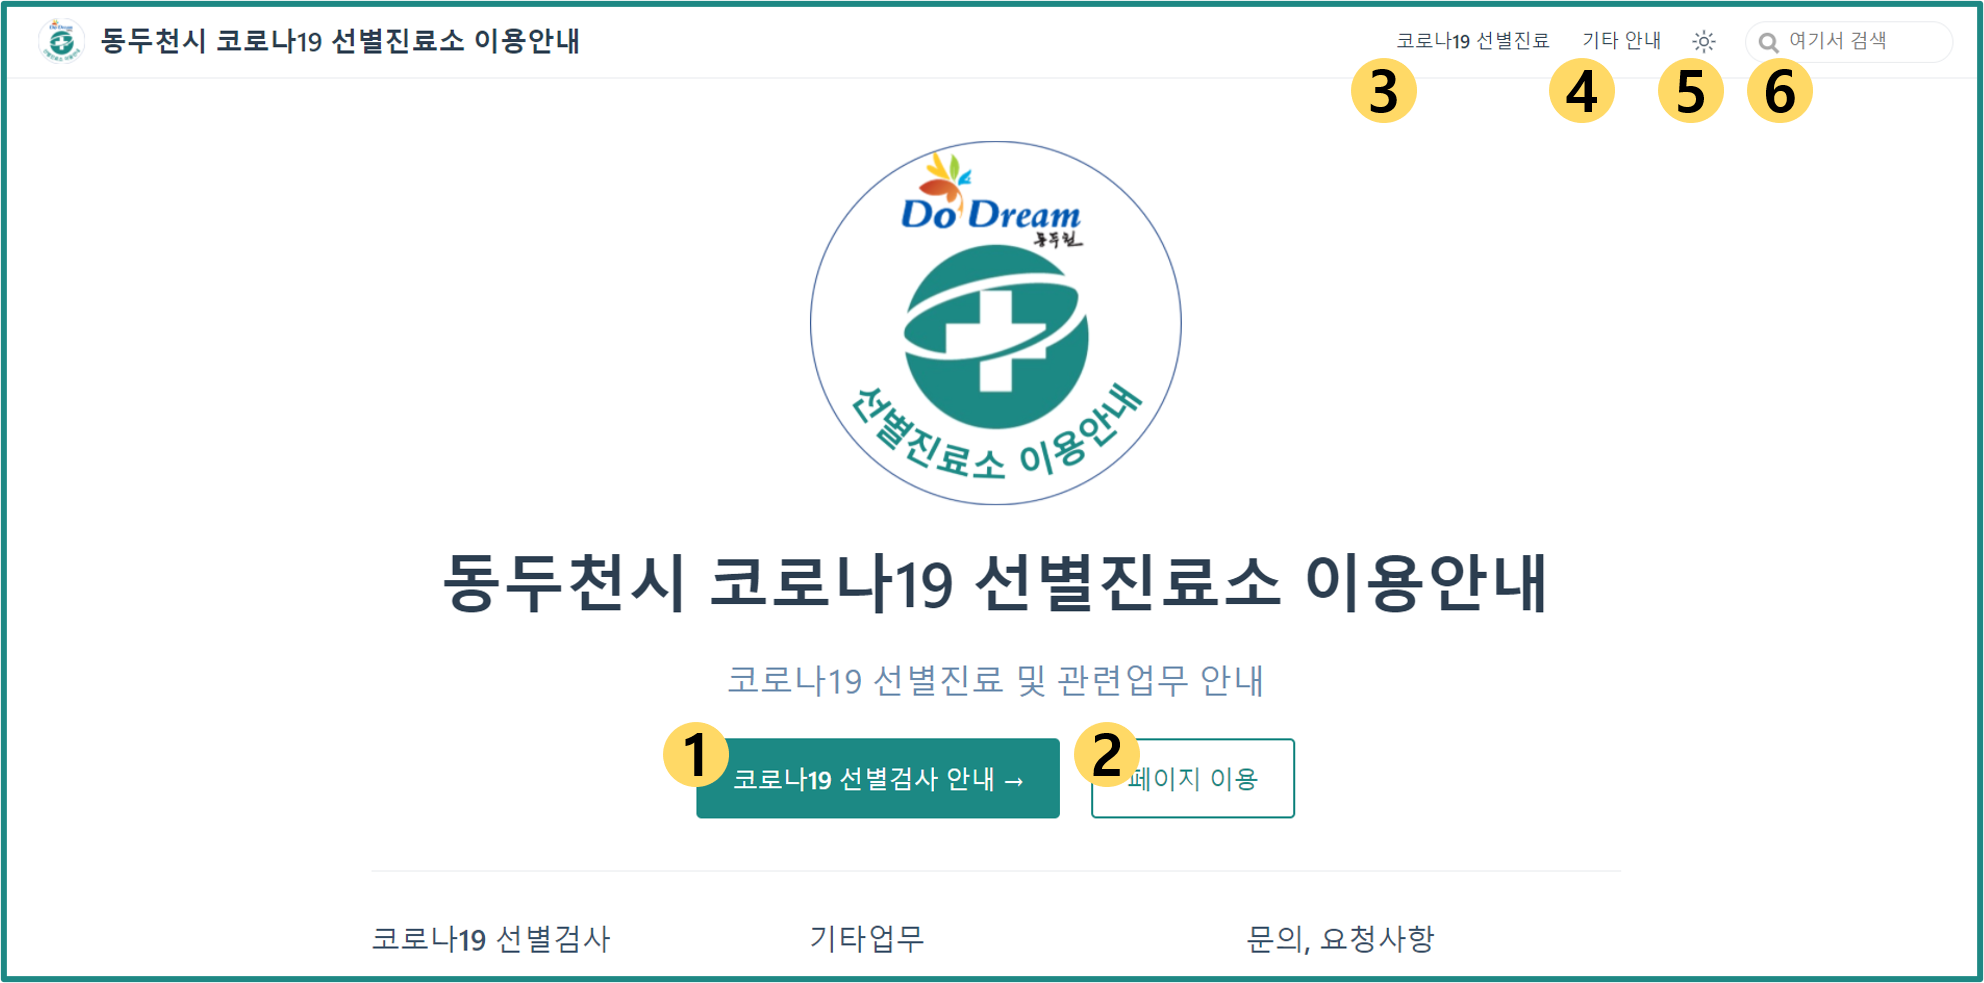
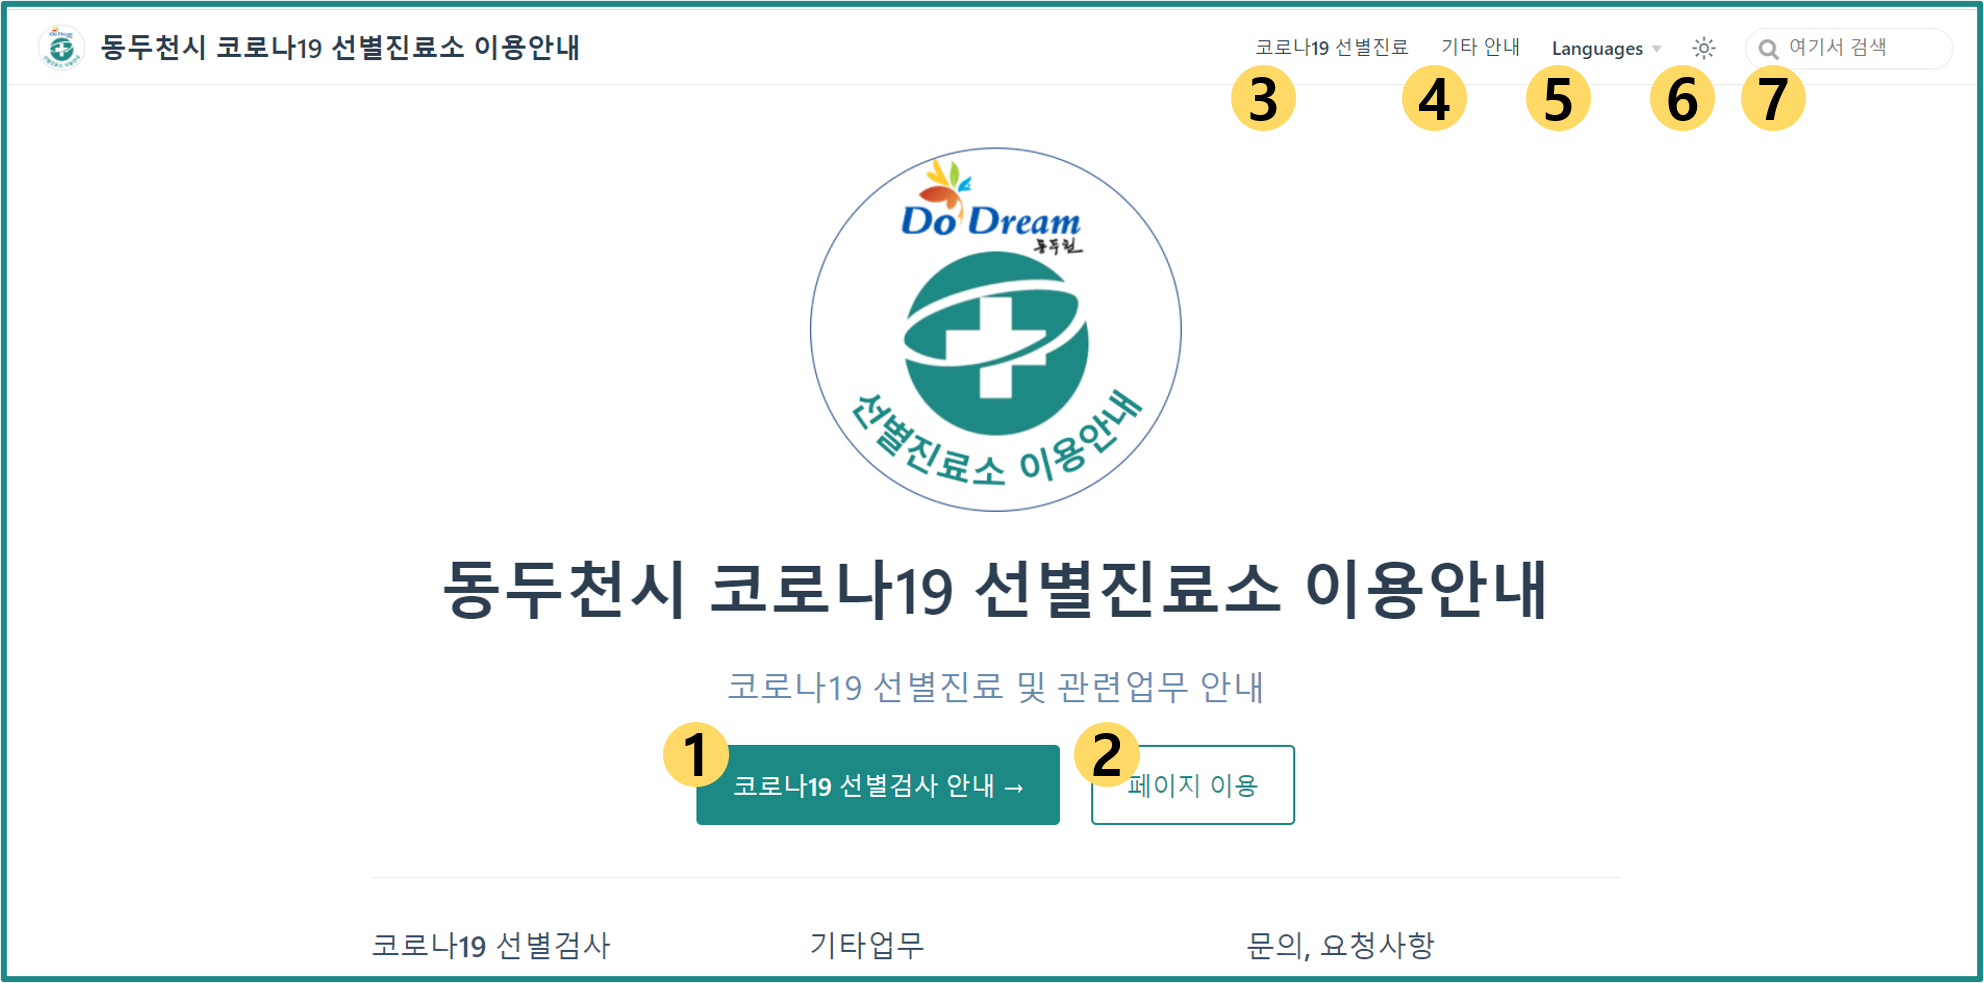
Complete translation : en-US

diff --git a/docs/en/covid-19/README.md b/docs/en/covid-19/README.md
@@ -1,97 +1,100 @@
-# 코로나19 선별진료 안내
+# Notice for COVID-19 Triage
 
-## 기본정보 및 주의사항
+## Basic information and Precautions
 
-### 기본정보
+### Basic information
 
-**운영시간** : 주중(월~금) 오전(09:00~11:30) / 오후(13:00~17:30), 토요일 09:30~11:30
+**Operating time** : Weekdays(MON~FRI) Morning(09:00~11:30) / Afternoon(13:00~17:30), Saturday 09:30~11:30
 
-> 종료시간 전에 대기인이 얼마나 있는지, 접촉자가 얼마나 발생했는지에 따라 통제가 이루어질 수 있습니다.
-원활한 검사를 위해 미리 방문하시기를 권장합니다.
+> Control can be achieved depending on how many people are waiting before the end time and how many contacts have occurred.
+We recommend that you visit in advance for a smooth examination.
 
-**장소** : 동두천시 보건소, 경기 동두천시 중앙로 167 동두천시보건소
+**Location** : Dongducheon-si Health Care Center, 167, Jungang-ro, Dongducheon-si, Gyeonggi-do, Republic of Korea
 
-### 주의사항
+### Precautions
 
-- 선별진료 필요물품을 꼭 챙겨주세요.
+- Please make sure to take the required items.
 
-- 대기줄에서 노란색 안전테이프 뒤에 서 주세요. (사회적 거리두기)
+- Please stand behind the yellow safety tape in the queue. (Social distancing)
 
-- 운영시간에 맞추어 방문해주세요.
+- Please visit in time for the operation.
 
-## 선별진료 필요물품
+## Required Items
 
-### 신분증
+### ID card
 
-선별진료를 받기 위해서, **신분증**은 꼭 지참하셔야 합니다.  
+In order to receive COVID-19 test, you must bring your **ID card**.  
 
-주민등록증과 같은 신분증부터, 같은 역할을 할 수 있는 *운전면허증*, *여권*, *외국인등록증* 이나 *등본*,  
-학생들의 경우 *학생증* 까지도 가능합니다.  
+ID cards such as resident registration cards, *driver's license*, *passport*, *foreign registration card*, *Copy or Abstract of Certification of Resident Register*,  
+For students, *student ID* is also available.
 
-아직 신분증이 없는 아이의 경우, 보호자분께서 아이의 주민등록번호를 숙지하여주시면 됩니다.
+For a child who doesn't have an ID yet, we need the child's social security number.
 
-> 간혹, 자차를 이용해 진료소로 오신 선생님께서는 자동차등록증 등을 제출해주시기도 합니다.
+> Sometimes, people who come to the center by car submit their car registration certificate.
 
-:::tip 실물 신분증이 아니어도 괜찮습니다.
-신분증을 촬영한 사진만 있어도 검사가 가능해요!
+:::tip It doesn't have to be a real card.
+Just a picture of your ID card is also okay.
 :::
 
-### 문자 또는 통화기록
+### A Message or a log of contact
 
-:::danger 코로나19 확진자의 밀접접촉자이거나 동선이 겹치는 경우 등에 해당됩니다.
+:::danger This applies to cases of close contact with COVID-19 confirmed patients or overlapping movements.
 
-- 보건소 등에서 '검사를 받아야 한다.'는 요지의 문자 또는 연락을 받으신 경우,
+- If you receive a message or contact that said 'You have to take COVID-19 test' from the health care center, or the other institution,
 
-- 중대본 등에서 '(기간)에 (장소)를 방문하신 분은 가까운 보건소에서 검사를 받으시기 바랍니다.'는 요지의
-문자에 해당하시는 경우에는  
+- Or if you are included of a message or contact 'If you visit (Place) at (Interval), take COVID-19 test at nearest health care center',  
 
-**받으신 문자 및 연락받은 통화기록**을 보여주셔야 합니다.
+You need to show me **the text message you received or the log of contact.**
 :::
 
-## 선별진료 진행과정
+## the Method of Triage
 
-![순서](./order.png)
+![order](./order.png)
 
-1. **문진** : 차례가 되면 문진실에서 접수 및 문진을 실시합니다.
+1. **Diagnose** : When it's your turn, you can register and get diagnose.
 
-    :::warning 문진이 뭔가요?
-    문진은, 코로나19 검사를 위하여 주요 정보를 여쭙고 확인하는 절차에요.  
-    신분, 코로나19 검사 목적(왜 받는지), 기저 질환(가지고 계신 병) 등을 확인할 수 있습니다.
+    :::warning What will I do?
+    While diagnose, we will check some basic infromation for COVID-19 test.  
+    We can check your ID, the purpose of COVID-19 test(why you received it), and the underlying disease(disorder you have), etc.
     :::
 
-1. **검체 채취** : 코로나19 검사를 위한 검체를 채취합니다.
+1. **Sampling** : Take some samples for COVID-19 test.
 
-### 검사진행 중 주의사항
+### Inspection In Progress Precautions
 
-- 통제요원의 지시를 잘 따라주세요.
+- Please follow the instructions.
 
-- 문진 또는 검사를 기다릴 때, 바닥에 표시된 테이프를 기준으로 서 주세요. (사회적 거리두기)
+- When you wait for Diagnose or Sampling, keep stand behind the yellow safety line. (Social distancing)
 
-- 아이가 검사를 받는 경우, 문진 및 검사에 보호자가 동행할 수 있습니다.
+- If you need, your guardian can accompany you to Diagnose or Sampling.
 
-## 검사비용
+## Costs
 
-현재 보건소에서 실시하고 있는 코로나19 선별검사는 **100% 급여 검사**입니다.
-따라서, 검사비용이 일체 발생하지 않습니다.  
-자비로 부담하여 검사를 받는 **비급여 검사**는 실시하고 있지 *않으니*, 이 점 유의 바랍니다.
+The current Covid-19 test conducted by the health center is a **100% payroll test**.
+Therefore, no inspection costs are incurred.  
+Please note that **non-payment inspection**, which is paid at your own expense, is not being carried out.
 
-## 검사 확인증 및 결과지
+## Verification documents
 
-코로나19 선별검사를 받았음을 증명하는 확인서,
-혹은 검사 결과 양성 또는 음성임을 통지하는 결과지는 **발급하고 있지 않습니다.**
+**There are no verification documents** that the COVID-19 test has been carried out,
+or a result sheet notifying the test result that it is positive or negative.
 
-다만, 학생의 경우, 확인증을 지참하면 해당 증에 서명을 해 드릴 수 있습니다.
+:::details How can I check the result of test?
+We only service the result of test via text message.
+:::
 
-출국심사 등을 위해 서류 결과지가 필요하시다면,
-민간병원을 방문하시어 검사를 받으시기 바랍니다.
+However, for students, we can sign the certificate if you bring it with you.
 
-:::details 동두천 근처 선별진료 가능 민간병원
-동두천 내에는 코로나19 검사를 하는 민간병원이 없습니다. 다음 병원들을 추천합니다 :
+If you need the document results for departure inspection,
+please visit a private hospital for inspection.
 
-- 양주 예스병원, 경기 양주시 회정로 103, ☎ 031-825-5000
+:::details Private hospitals capable of COVID-19 testing:
+There is no private hospital in Dongducheon that conducts COVID-19 test. I recommend the following hospitals:
 
-- 의정부 백병원, 경기 의정부시 금신로 322 의정부백병원, ☎ 031-856-8111
+- Yangju "Yes" hospital, 103, Hoejeong-ro, Yangju-si, Gyeonggi-do, Republic of Korea, ☎ 031-825-5000
 
-- 의정부 추병원, 경기 의정부시 평화로 650 추병원, ☎ 031-845-7777
+- Uijeongbu "Baek" hospital, 322, Geumsin-ro, Uijeongbu-si, Gyeonggi-do, Republic of Korea, ☎ 031-856-8111
+
+- Uijeongbu "Choo" hospital, 650, Pyeonghwa-ro, Uijeongbu-si, Gyeonggi-do, Republic of Korea, ☎ 031-845-7777
 
 :::

diff --git a/docs/en/guide/README.md b/docs/en/guide/README.md
@@ -1,38 +1,40 @@
-# 안내페이지 이용방법
+# Introduction
 
-안녕하세요, 동두천시보건소 선별진료소 지원팀입니다.  
-이 페이지는 코로나19 대응기간 동안의 선별진료소 및 보건소 일반업무와 관련된 공지사항을 안내드리기 위해 만들어졌습니다.  
+Hello, this is Triage support team of Dongducheon City Health Center Center.  
+This page is created to inform you of the public notice related to the general affairs of triage and health centers during the Covid-19 response period.
 
-아래 내용을 참고해 어디서 어떤 정보를 확인할 수 있는지 둘러보세요 :smiley:
+See below to see where and what information you can find :smiley:
 
-## 홈 화면 레이아웃
+## Layouts of Home
 
-[홈 화면](../)은 다음과 같이 구성되어 있어요 :
+The layouts of [Home](../) is like this :
 
-![레이아웃-가이드-01](./guide-rayout-01.png)
+![layout-guide-01](./guide-rayout-01.png)
 
-1. `코로나19 선별검사 안내` 버튼을 눌러 선별검사와 관련 안내페이지로 이동하세요.
+1. Press the `COVID-19 Triage` button to go to the related information page.
 
-1. `페이지 이용`을 눌러 가이드 페이지(현재 페이지)로 이동하세요.
+1. Press the `How to use this page` button to go guide page(this page).
 
-1. 우측 상단 `코로나19 선별진료` 버튼을 눌러 선별검사와 관련 안내페이지로 이동하세요.
+1. Press the `COVID-19 Triage` button at the right top to go to the related information page.
 
-    - 1번과 같은 메뉴에요.
+    - It's the same button as button number 1.
 
-1. 우측 상단 `기타 안내` 버튼을 눌러 선별검사 외 일반업무 안내페이지로 이동하세요.
+1. Press the `Other notice` button at the right top to go to the general business information page other than triage.
 
-1. 우측 상단 `해 표시`를 눌러 다크모드로 전환할 수 있어요.
+1. Press the `Sun mark` at the right top, you can change the theme to Dark-mode.
 
-1. 우측 상단 `검색 박스`에서 필요한 정보를 검색할 수 있어요.
+1. Via the `Languages` button at the right top, you can choose another language.
 
-## 안내 목록
+1. By the `Search Box` at the right top, you can find some information on this page.
 
-이 안내페이지는 다음과 같은 사항들을 안내드리고 있어요:
+## List of Notice
 
-- [코로나19 선별진료 관련 안내사항](../covid-19/) `준비물` `검사방법` `운영시간` `검사 소요시간`
+This page provides following informations :
 
-- [기타 일반업무 안내사항](../other/) `일반사항`
+- [Notice for COVID-19 Triage(test)](../covid-19/) `Preparation`, `Inspection Method/Time`, `Operation Time`
 
-  - 보건소 본관 업무 `보건증` `구강 보건사업` `각종 대여사업`
+- [Other general notice](../other/) `General thing`
 
-  - 보건소 별관 업무 `치매안심센터`
+  - @Main building `Health certification` `Oral-health business` `Various rental business`
+
+  - @Annex `Dementia relief center`

diff --git a/docs/en/other/oral-health-care.md b/docs/en/other/oral-health-care.md
@@ -1,17 +1,17 @@
-# 구강 보건사업
+# Oral health care business
 
-**운영 날짜** : 매주 화요일, 오전 09:30~11:30 / 오후 13:30~17:30
+**Operating dates** : Every Tuesday, Morning 09:30~11:30 / Afternoon 13:30~17:30
 
-## 운영 내용
+## Services
 
-매주 화요일에 보건소로 방문하시면, 칫솔 및 불소용액을 받으실 수 있습니다.  
+If you visit the health center every Tuesday, you can get a toothbrush and fluoride solution.  
 
-- 칫솔은 가족 구성원당 2개월에 1개씩이며,
+- One toothbrush every two months, Each family member.
 
-  - 강한모 / 부드러운모를 선택할 수 있습니다.
+  - You can choose strong wool / soft wool.
   
-- 불소용액은 한 가정당 하나만 제공되며, 다 사용하시면 보건소에서 다시 받을 수 있습니다.
+- Only one fluorine solution is provided per household. If you use it all, you can get it again at the health center.
 
-:::warning 불소용액을 다시 받으실 경우,
-처음 수령했던 불소용액 용기를 지참하시기 바랍니다.
+:::warning When you refilling the fluorine solution,
+Please bring the fluorine solution container you received for the first time.
 :::

diff --git a/docs/en/other/dementia-center.md b/docs/en/other/dementia-center.md
@@ -1,11 +1,11 @@
-# 치매안심센터 방문
+# Visit Dementia relief center
 
-치매안심센터 방문 및 치매 관련 업무를 보실 분은 보건소 별관으로 방문해주셔야 합니다.
+Those who want to visit the dementia relief center and work related to dementia should visit the health center annex.
 
-## 위치 및 가는 길
+## Location and way to go
 
-![별관위치](./dementia-center-posi.png)
+![Annex-location](./dementia-center-posi.png)
 
-:::danger 1번길(보건소를 통해서 가는 통로)가 코로나로 인해 봉쇄되었습니다.
-2번길(약국 쪽으로 돌아가는 길)을 통해 별관으로 이동해주시기 바랍니다.
+:::danger Route 1(the way through the center) has been blocked by the COVID-19
+Please use route 2(the way back to the pharmacy) to go Annex.
 :::

diff --git a/docs/en/guide/contact.md b/docs/en/guide/contact.md
@@ -1,11 +1,11 @@
-# 문의사항 및 요청사항
+# Inquiries, Requests
 
-문의나 요청, 문제가 되는 부분이 있다면 메인테이너에게 컨택 부탁드립니다.
+If you have any inquiries or requests, please ask the maintainer below.
 
-**Maintainer** : Donghun, Lee, 동두천시 보건소
+**Maintainer** : Donghun, Lee, Health care center, Dongducheon-si.
 
-## 페이지 제작 요청
+## Request for page creation
 
-본 페이지와 같은 페이지 제작을 요청하고 싶으신 분은
+If you'd like to request the create a page of the same page like this one,
+please refer to
 ["# Contact Me | 연락처"](https://github.com/hajun-myoung/covid-19-notice#contact-me--%EC%97%B0%EB%9D%BD%EC%B2%98)
-를 참고해주세요.

diff --git a/docs/en/other/README.md b/docs/en/other/README.md
@@ -1,12 +1,12 @@
-# 기타 업무
+# Other businesses
 
-코로나19 선별진료 기간 동안,
-보건소에서 운영하는 그 외 업무는 다음과 같습니다:
+While the COVID-19 Triage booth is operating,
+Other businesses run by the DDC health center are:
 
-- [치매안심센터(별관)](./dementia-center.html)
+- [Dementia relief center(Annex)](./dementia-center.html)
 
-- [구강보건 사업](./oral-health-care.html)
+- [Oral-health business](./oral-health-care.html)
 
-- [보건증 발급 등](./health-certification.html)
+- [Health certification](./health-certification.html)
 
-- [각종 대여사업](./various-rental-service.html)
+- [Various rental business](./various-rental-service.html)

diff --git a/docs/en/other/various-rental-service.md b/docs/en/other/various-rental-service.md
@@ -1,11 +1,11 @@
-# 각종 대여사업
+# Various rental services
 
-## 혈당측정기 무료대여 사업
+## Blood glucose meter free lending business
 
-혈당측정기 무료대여는 예약 후 방문하셔야 합니다.
+You have to make a reservation and visit the blood glucose meter for free.
 
-![혈당측정기-포스터](./blood-sugar-poster.jpg)
+![blood-glucose-meter-poster](./blood-sugar-poster.jpg)
 
-## 유축기 등 대여 사업
+## Rental businesses for breast pump
 
-보건소로 방문하셔서 통제요원에게 말씀해주시면, 주무관님과 연결해드립니다.
+If you visit the health center and tell the control officer, I'll connect you with the officer in charge.

diff --git a/docs/en/other/health-certification.md b/docs/en/other/health-certification.md
@@ -1,12 +1,12 @@
-# 보건증 발급 등
+# Health certification
 
-**운영날짜** : 매주 화, 수요일
+**Operating dates** : Every Tuesday, and Wednesday.
 
-*운영날짜* 에 보건소로 방문하시면 보건증 발급 신청 및 수령이 가능합니다.  
-그 외 날짜에는 방문하셔도 관련 업무를 보실 수 없습니다.
+You can apply for and receive, or just receive it, a health certificate if you visit the health center on the *operating dates*.  
+You can't do related work even if you visit on other dates.
 
-## 필요 물품
+## Required Items
 
-- 신분증
+- ID card
 
-- 발급비용
+- Costs

diff --git a/docs/covid-19/README.md b/docs/covid-19/README.md
@@ -80,6 +80,10 @@
 코로나19 선별검사를 받았음을 증명하는 확인서,
 혹은 검사 결과 양성 또는 음성임을 통지하는 결과지는 **발급하고 있지 않습니다.**
 
+:::details 그럼 검사 결과를 어떻게 확인하나요?
+현재 저희는 검사 결과를 문자메시지를 통해서만 통지하고 있습니다.
+:::
+
 다만, 학생의 경우, 확인증을 지참하면 해당 증에 서명을 해 드릴 수 있습니다.
 
 출국심사 등을 위해 서류 결과지가 필요하시다면,

diff --git a/docs/en/README.md b/docs/en/README.md
@@ -5,10 +5,10 @@ heroAlt: DDC health care center COVID-19 triage boooth logo img
 tagline: Notice for COVID-19 Triage booth and other related business of health care center
 actions:
   - text: COVID-19 Triage →
-    link: /covid-19/
+    link: /en/covid-19/
     type: primary
   - text: How to use this page
-    link: /guide/
+    link: /en/guide/
     type: secondary
 features:
   - title: COVID-19 Triage

diff --git a/docs/guide/README.md b/docs/guide/README.md
@@ -23,6 +23,10 @@
 
 1. 우측 상단 `해 표시`를 눌러 다크모드로 전환할 수 있어요.
 
+1. 우측 상단 `Languages`를 눌러 다른 언어를 선택할 수 있어요.
+
+    - Via the `Languages` button at the right top, you can choose another language.
+
 1. 우측 상단 `검색 박스`에서 필요한 정보를 검색할 수 있어요.
 
 ## 안내 목록
